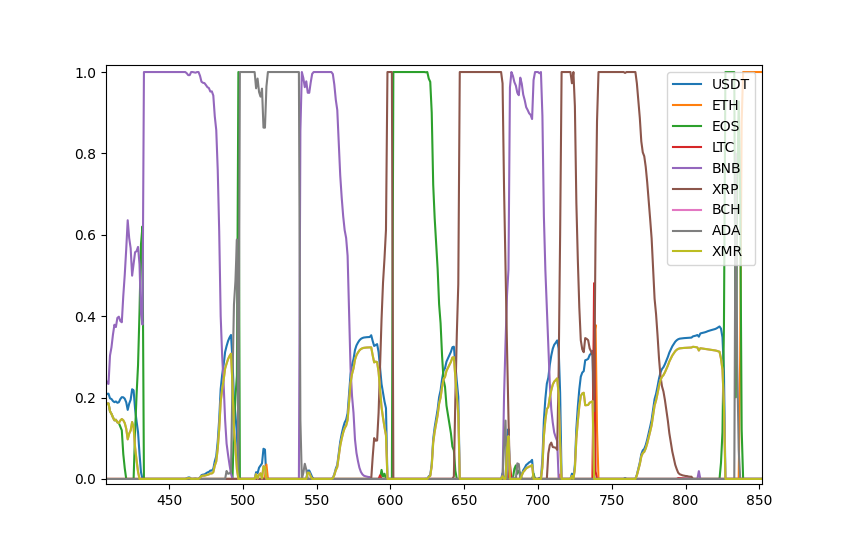
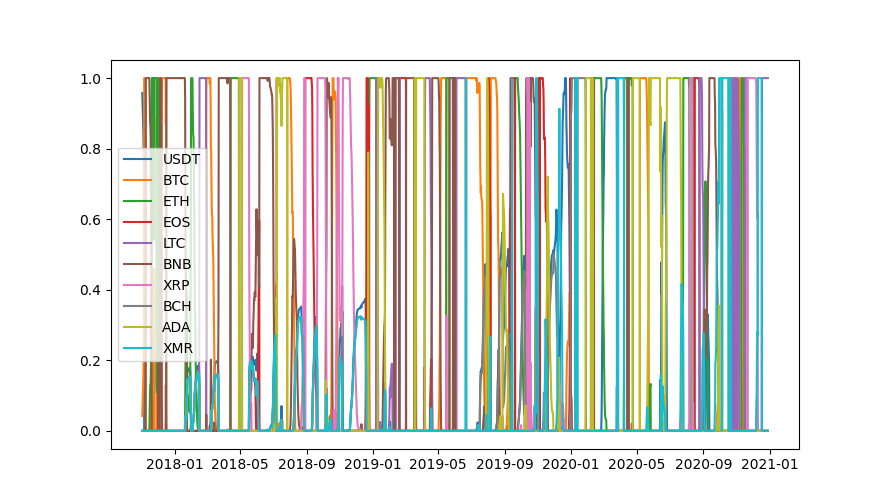
Readme

diff --git a/MAMR.py b/MAMR.py
@@ -7,7 +7,7 @@ import numpy as np
 
 #need to run data/get_candles_spot.py
 DATABASE = 'data/candles_12h.db'
-CURRENCIES = ['ETH', 'EOS', 'LTC', 'BNB', 'XRP', 'BCH', 'ADA', 'XMR']
+CURRENCIES = ['BTC', 'ETH', 'EOS', 'LTC', 'BNB', 'XRP', 'BCH', 'ADA', 'XMR']
 #CURRENCIES = ['BTC', 'ETH', 'EOS', 'LTC', 'BNB', 'BCH', 'ADA']
 
 def main():
@@ -45,14 +45,14 @@ def main():
 	plt.plot([datetime.datetime.fromtimestamp(time / 1000) for time in times], [p[1]/prices[0][1] for p in prices[1:]], label='BTC Return')
 	plt.yscale('log')
 	plt.ylabel('Return')
-	plt.title('MAMR Daily Updates, 0.001 Transaction Fee')
+	plt.title('MAMR 12 hour updates, 0.001 Transaction Fee')
 	plt.legend()
 
 
 	plt.figure(1)
 
 	for i, currency in enumerate(['USDT'] + CURRENCIES):
-		plt.plot([p[i] for p in manager.portfolios], label=currency)
+		plt.plot([datetime.datetime.fromtimestamp(time / 1000) for time in times], [p[i] for p in manager.portfolios[1:]], label=currency)
 	plt.legend()
 
 	plt.show()

diff --git a/README.md b/README.md
@@ -1,22 +1,21 @@
 # Automated Portfolio Management Analysis for Binance Cryptocurrency Exchange
-Implementation of PAMR and MAMR portfolio management algorithms for analysis and online portfolio management of cryptocurrency assets.
-
-### Performance - with the trading fee of 0.1%
-Parameters fitted to maximise the mean daily return, algorithm runs every 30 minutes
-![PAMR-2 Performance](https://raw.githubusercontent.com/alfredholmes/BinancePAMR/master/results/PAMR-BTC-comparison.png)
-
-Current portfolio consists of 8 large market cap coins.
+Implementation of PAMR and MAMR portfolio management algorithms for online portfolio management and analysis of cryptocurrency assets.
 
 ### MAMR 12 hour
 ![MAMR 12 hour](https://raw.githubusercontent.com/alfredholmes/BinancePAMR/master/results/Figure_0.png)
 #### Example Portfolio Through Time
 ![Portfolio through time](https://raw.githubusercontent.com/alfredholmes/BinancePAMR/master/results/example_portfolio.png)
 
+### Performance - with the trading fee of 0.1%
+Parameters fitted to maximise the mean daily return, algorithm runs every 30 minutes
+![PAMR-2 Performance](https://raw.githubusercontent.com/alfredholmes/BinancePAMR/master/results/PAMR-BTC-comparison.png)
+
+
 ### Requirements
 	pip3 install requests numpy scipy  
 
 ### Binance Trading Bot
-Create a file keys.py and assign the api key and secret key from a binance account to the variables api and secret respectivley in the keys file. When the bot runs it gets the spot portfolio of the tracked currencies (currencies in the CURRENCIES variable) and runs the MAMR algorithm to calculate the next portfolio and then makes the trade (not currently implemented) in a way that minimises the trade volume to reduce fees. The state, allong with the market data is then pickled which is opened on the next run. The parameters in the implementation expect the script to be run every 12 hours. 
+Create a file keys.py and assign the api key and secret key from a binance account to the variables api and secret respectively in the keys file. When the bot runs it gets the spot portfolio of the tracked currencies (currencies in the CURRENCIES variable) and runs the MAMR algorithm to calculate the next portfolio and then makes the trade (not currently implemented) in a way that minimises the trade volume to reduce fees. The state, along with the market data is then pickled and is opened on the next run. The parameters in the implementation expect the script to be run every 12 hours. 
 
 ### To run PAMR/MAMR simulations
 	git clone https://github.com/alfredholmes/binancePAMR.git
